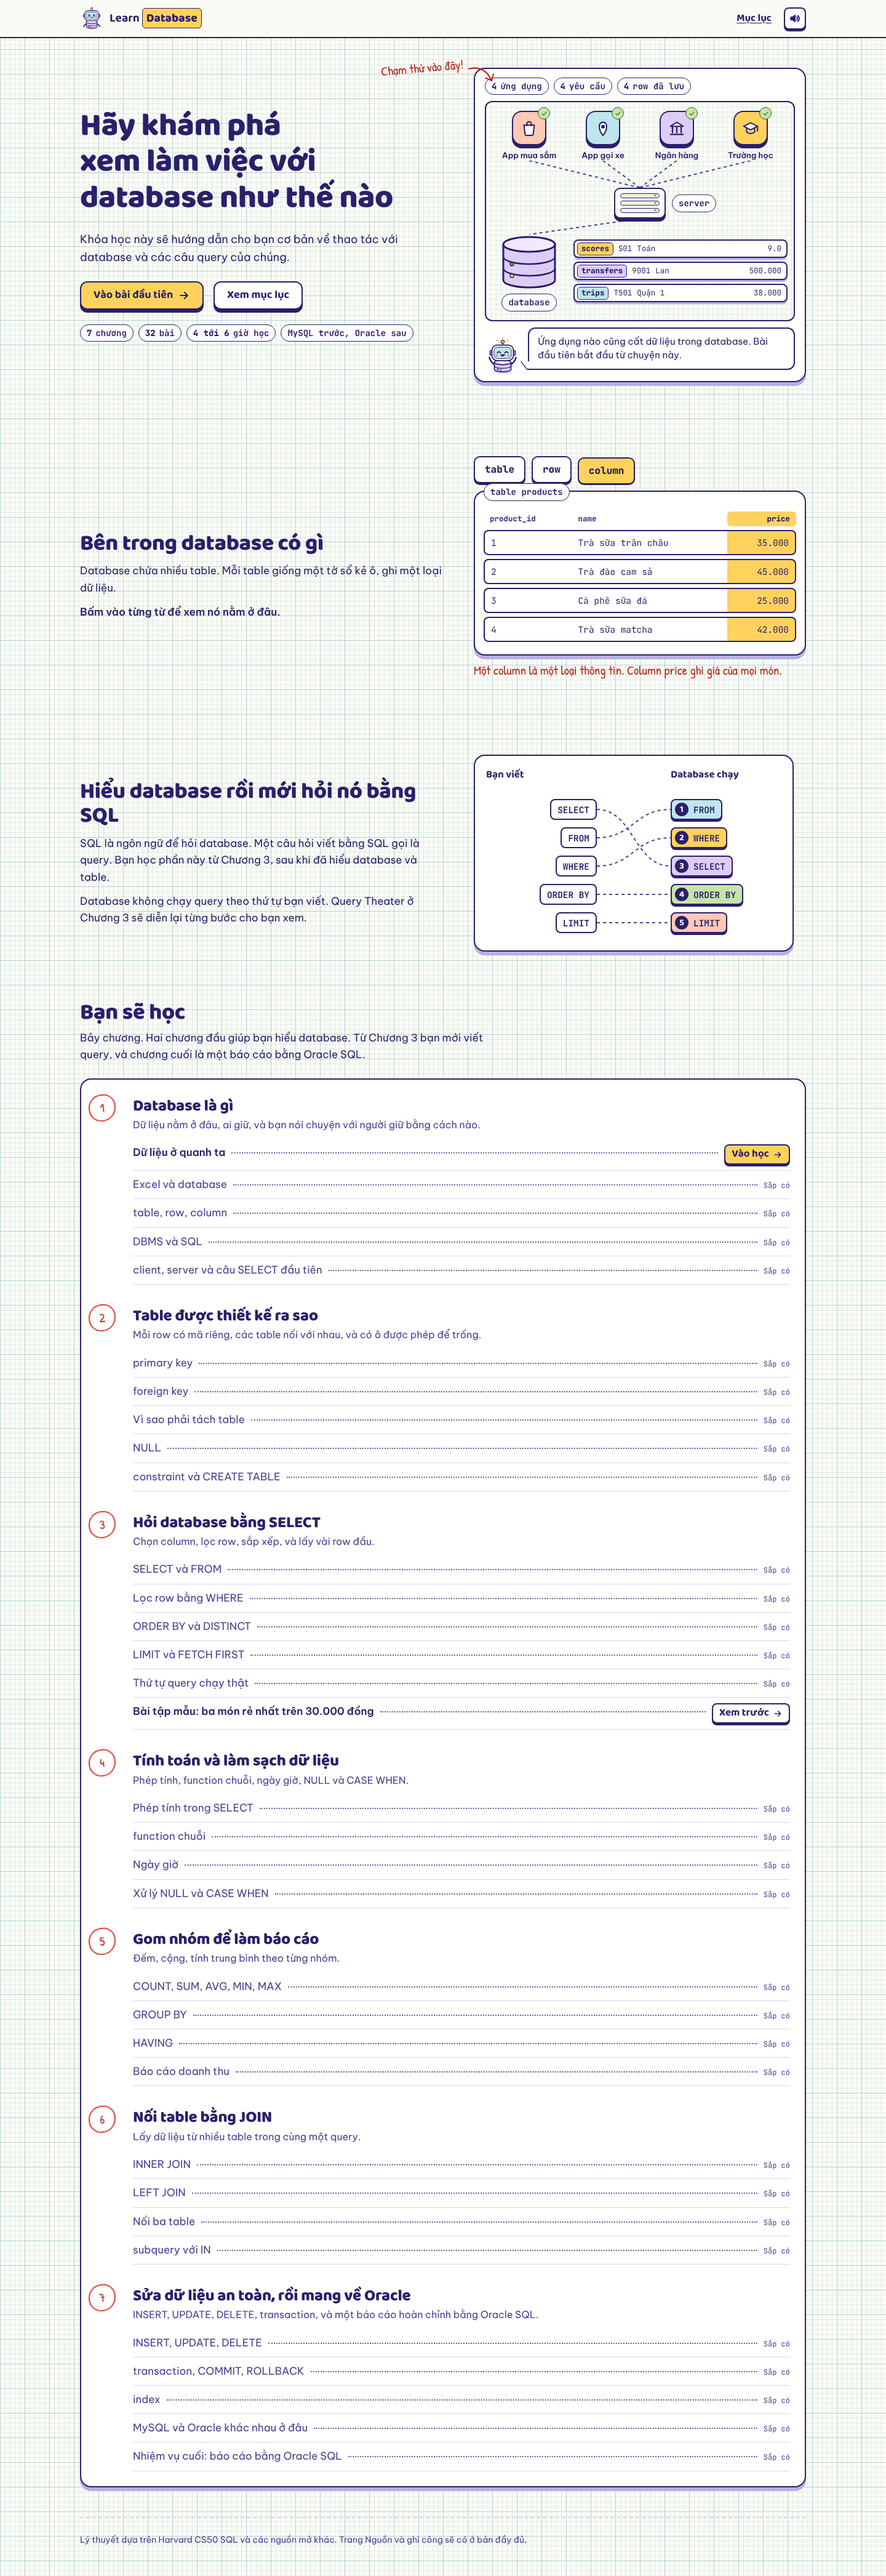
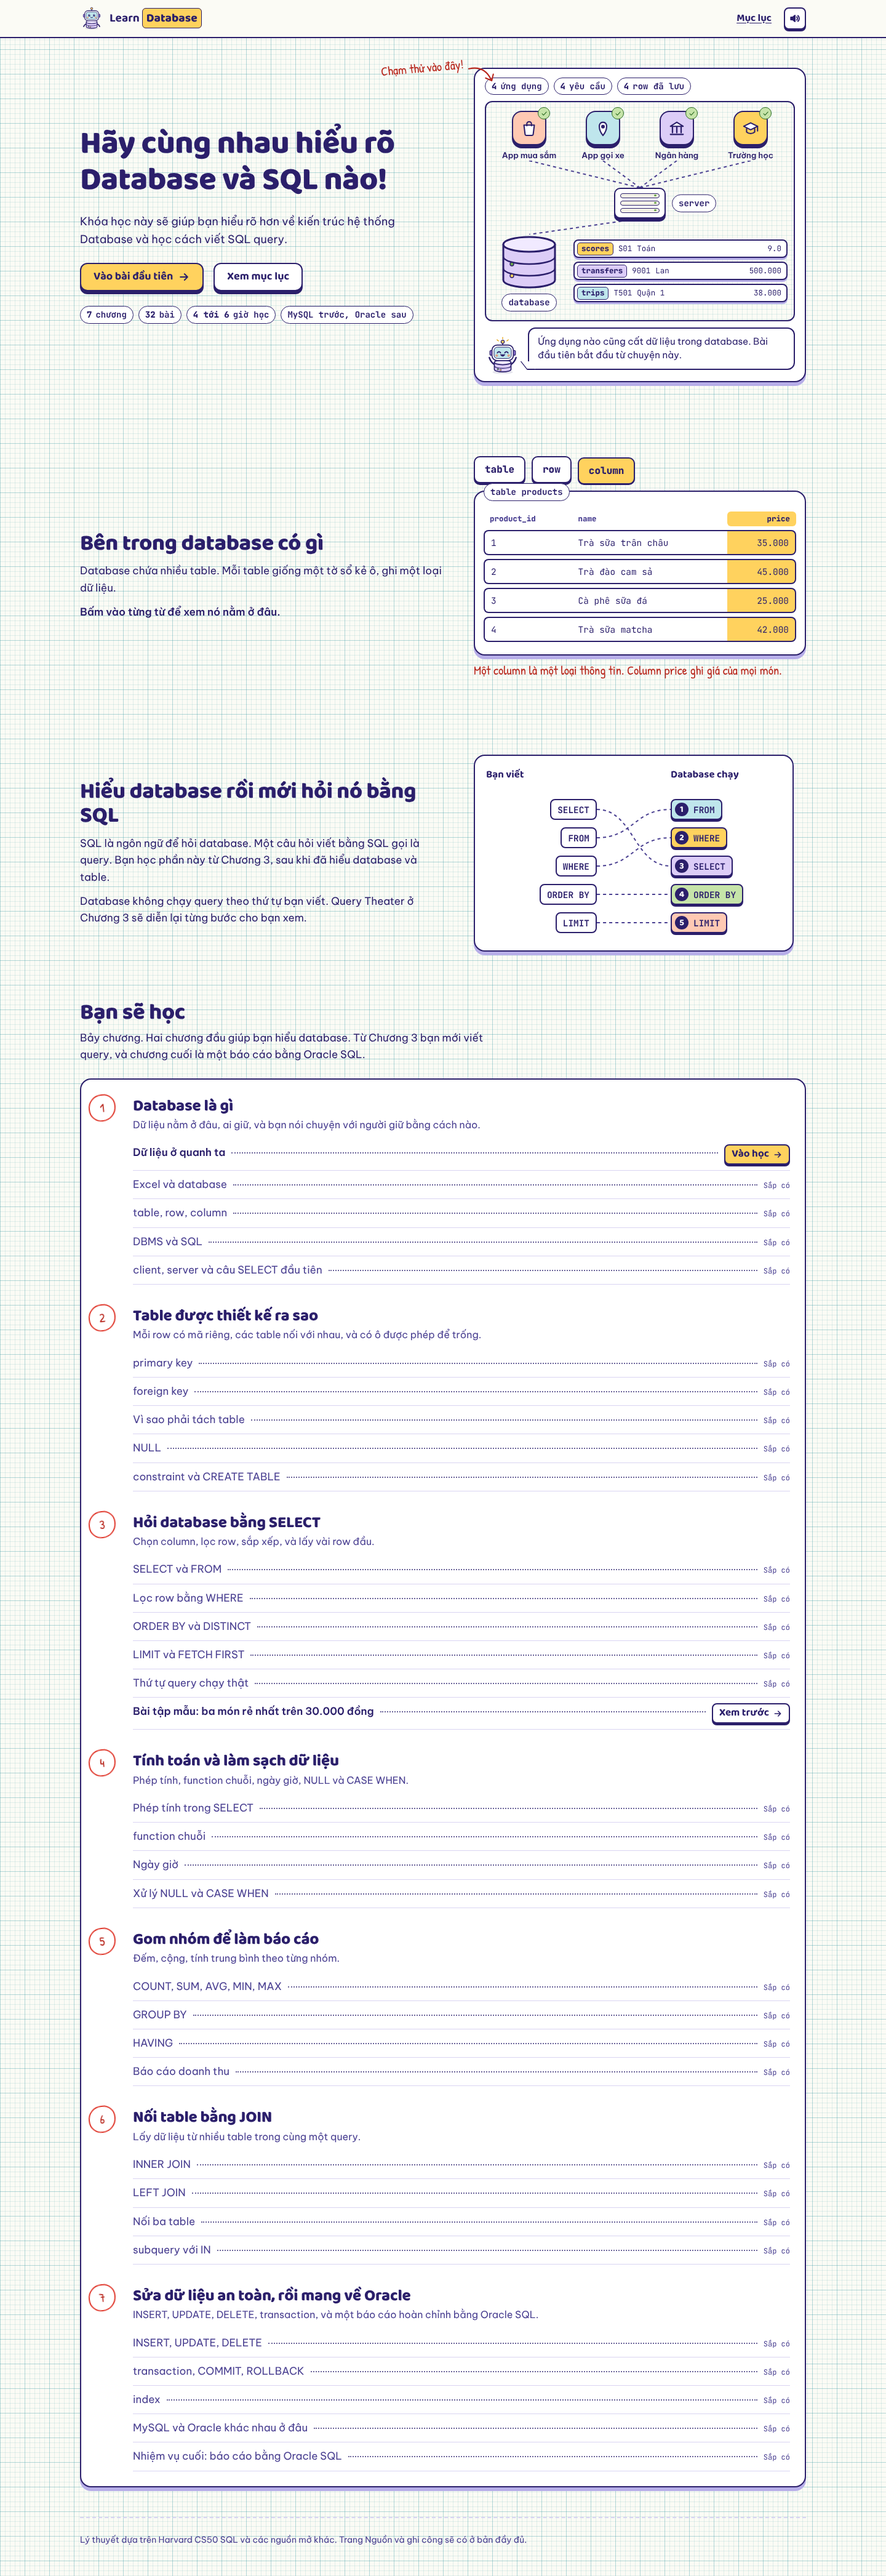
Đổi tiêu đề và câu mô tả trang chủ theo lời chủ dự án
Claude-Session: https://claude.ai/code/session_01JaZNZaaMgsFyM3UVhHUARy

Changed region(s): [[0.0938, 0.0311, 0.4375, 0.1553], [0.3438, 0.1243, 0.4375, 0.1553]]

diff --git a/src/content/ui-app.ts b/src/content/ui-app.ts
@@ -9,9 +9,9 @@ export const uiApp = {
     skip: 'Tới nội dung chính',
   },
   home: {
-    // Tiêu đề và câu mô tả do chủ dự án chọn. Giữ nguyên, không sửa theo luật từ sáo.
-    title: 'Hãy khám phá xem làm việc với database như thế nào',
-    lead: 'Khóa học này sẽ hướng dẫn cho bạn cơ bản về thao tác với database và các câu query của chúng.',
+    // Tiêu đề và câu mô tả do chủ dự án chọn. Giữ nguyên từng chữ, không sửa theo luật viết.
+    title: 'Hãy cùng nhau hiểu rõ Database và SQL nào!',
+    lead: 'Khóa học này sẽ giúp bạn hiểu rõ hơn về kiến trúc hệ thống Database và học cách viết SQL query.',
     start: 'Vào bài đầu tiên',
     toToc: 'Xem mục lục',
     facts: { chapters: 'chương', lessons: 'bài', hours: 'giờ học', hoursValue: '4 tới 6', dialects: 'MySQL trước, Oracle sau' },

diff --git a/docs/decisions.md b/docs/decisions.md
@@ -51,5 +51,4 @@ Kết quả đầy đủ, kèm link và câu trích, nằm ở `docs/dialect-ver
 - **Mascot đổi từ hạt trân châu Châu sang robot Bi.** Chủ dự án thấy mascot cũ đáng sợ và muốn một hình có nét công nghệ. Bi có thân là khối trụ database và đầu là màn hình sáng. Bi vẫn là người giữ kho, tức hình ảnh của DBMS.
 - **Trang chủ dạy database trước.** Cảnh đầu trang không còn là query. Cảnh mới: chạm vào một ứng dụng, dữ liệu chạy qua server vào database và thành một row. Dưới đó là cảnh table, row, column, rồi mới tới một dải ngắn nói về SQL. Nút "Thử Query Theater" ở đầu trang đã bỏ.
 - **Bài tập mẫu của Chương 3 chỉ còn nằm trong mục lục**, ở cuối Chương 3, với nhãn "Xem trước". Từ Mốc 2, bài tập luôn đứng sau lý thuyết của chương.
-- **Tiêu đề trang chủ dùng đúng câu chủ dự án đưa.** Trong câu mô tả, chữ "truy vấn" được thay bằng "query" để khớp với luật thuật ngữ của chính dự án. Nếu chủ dự án muốn giữ "truy vấn" thì sửa một chỗ ở `src/content/ui-app.ts`.
-
+- **Tiêu đề và câu mô tả ở trang chủ dùng đúng câu chủ dự án đưa** (bản chốt lần hai): "Hãy cùng nhau hiểu rõ Database và SQL nào!" và "Khóa học này sẽ giúp bạn hiểu rõ hơn về kiến trúc hệ thống Database và học cách viết SQL query." Hai câu này nằm ở `src/content/ui-app.ts` và không sửa theo luật viết.

diff --git a/CLAUDE.md b/CLAUDE.md
@@ -40,7 +40,7 @@ Luật áp cho mọi kiểu dịch tương tự. Cũng giữ tiếng Anh: functi
 - Mascot là Bi, một chú robot database, nét sáng và thân thiện. Không quay lại hạt trân châu.
 - Trang chủ dạy database trước: ứng dụng quanh ta, dữ liệu đi đâu, bên trong database có gì. SQL và Query Theater chỉ xuất hiện sau, và không có nút nào ở đầu trang dẫn thẳng vào bài tập.
 - Bài tập chỉ đến sau lý thuyết của chương đó. Không mời người học làm bài tập khi chưa học.
-- Tiêu đề trang chủ "Hãy khám phá xem làm việc với database như thế nào" do chủ dự án chọn. Giữ nguyên, không sửa theo luật từ sáo.
+- Tiêu đề trang chủ "Hãy cùng nhau hiểu rõ Database và SQL nào!" và câu mô tả "Khóa học này sẽ giúp bạn hiểu rõ hơn về kiến trúc hệ thống Database và học cách viết SQL query." do chủ dự án chọn. Giữ nguyên từng chữ, không sửa theo luật viết.
 
 ## Phạm vi
 
